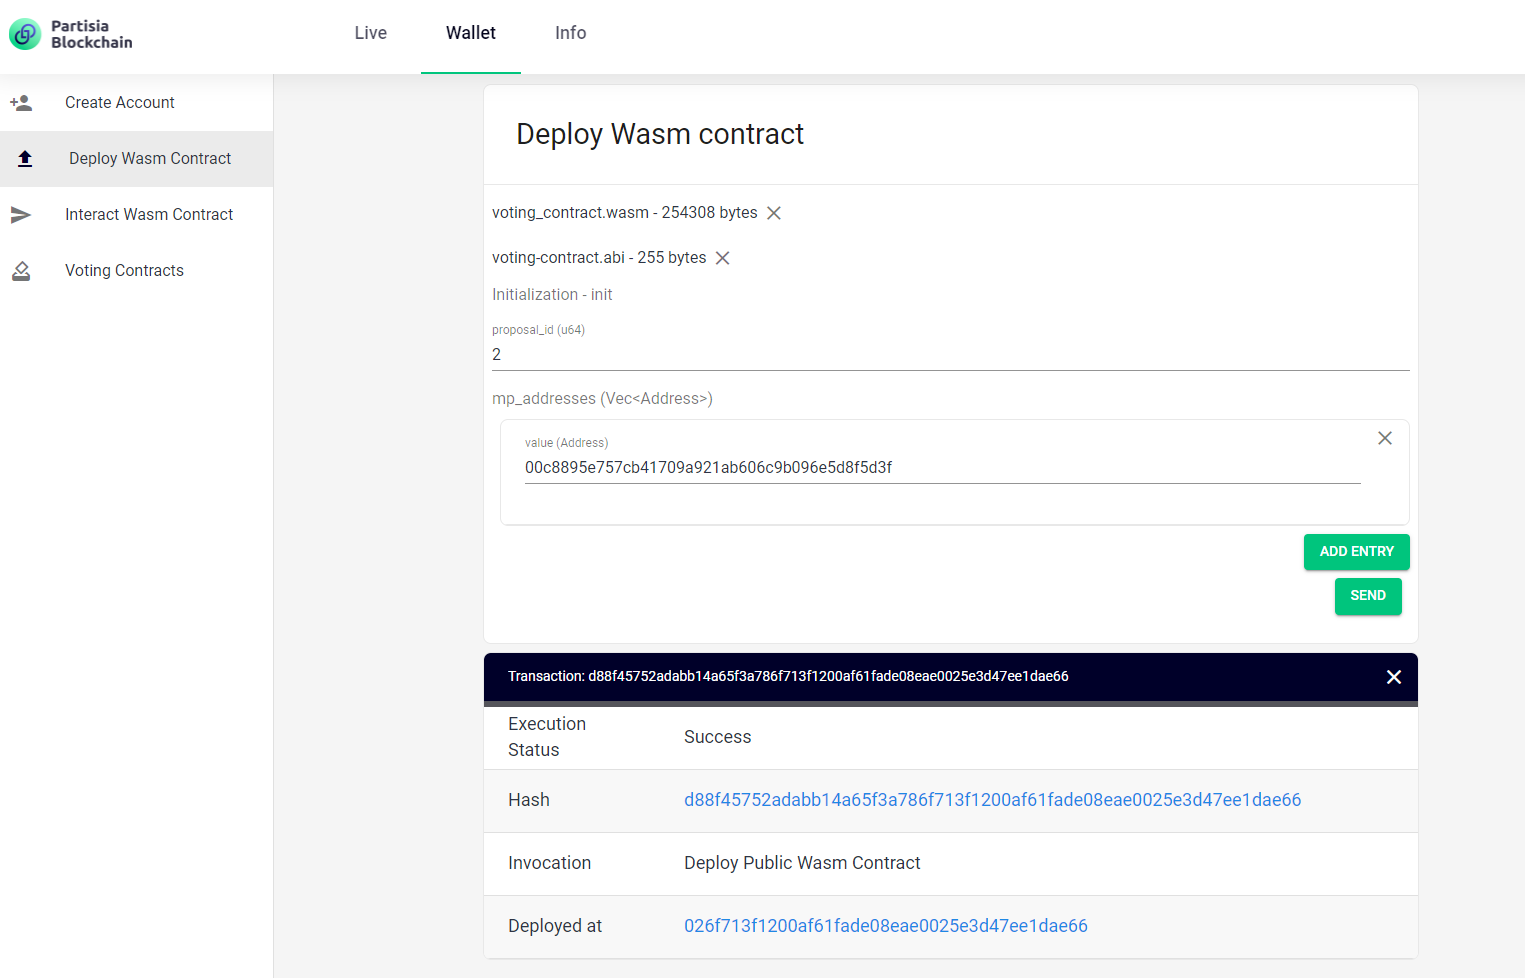
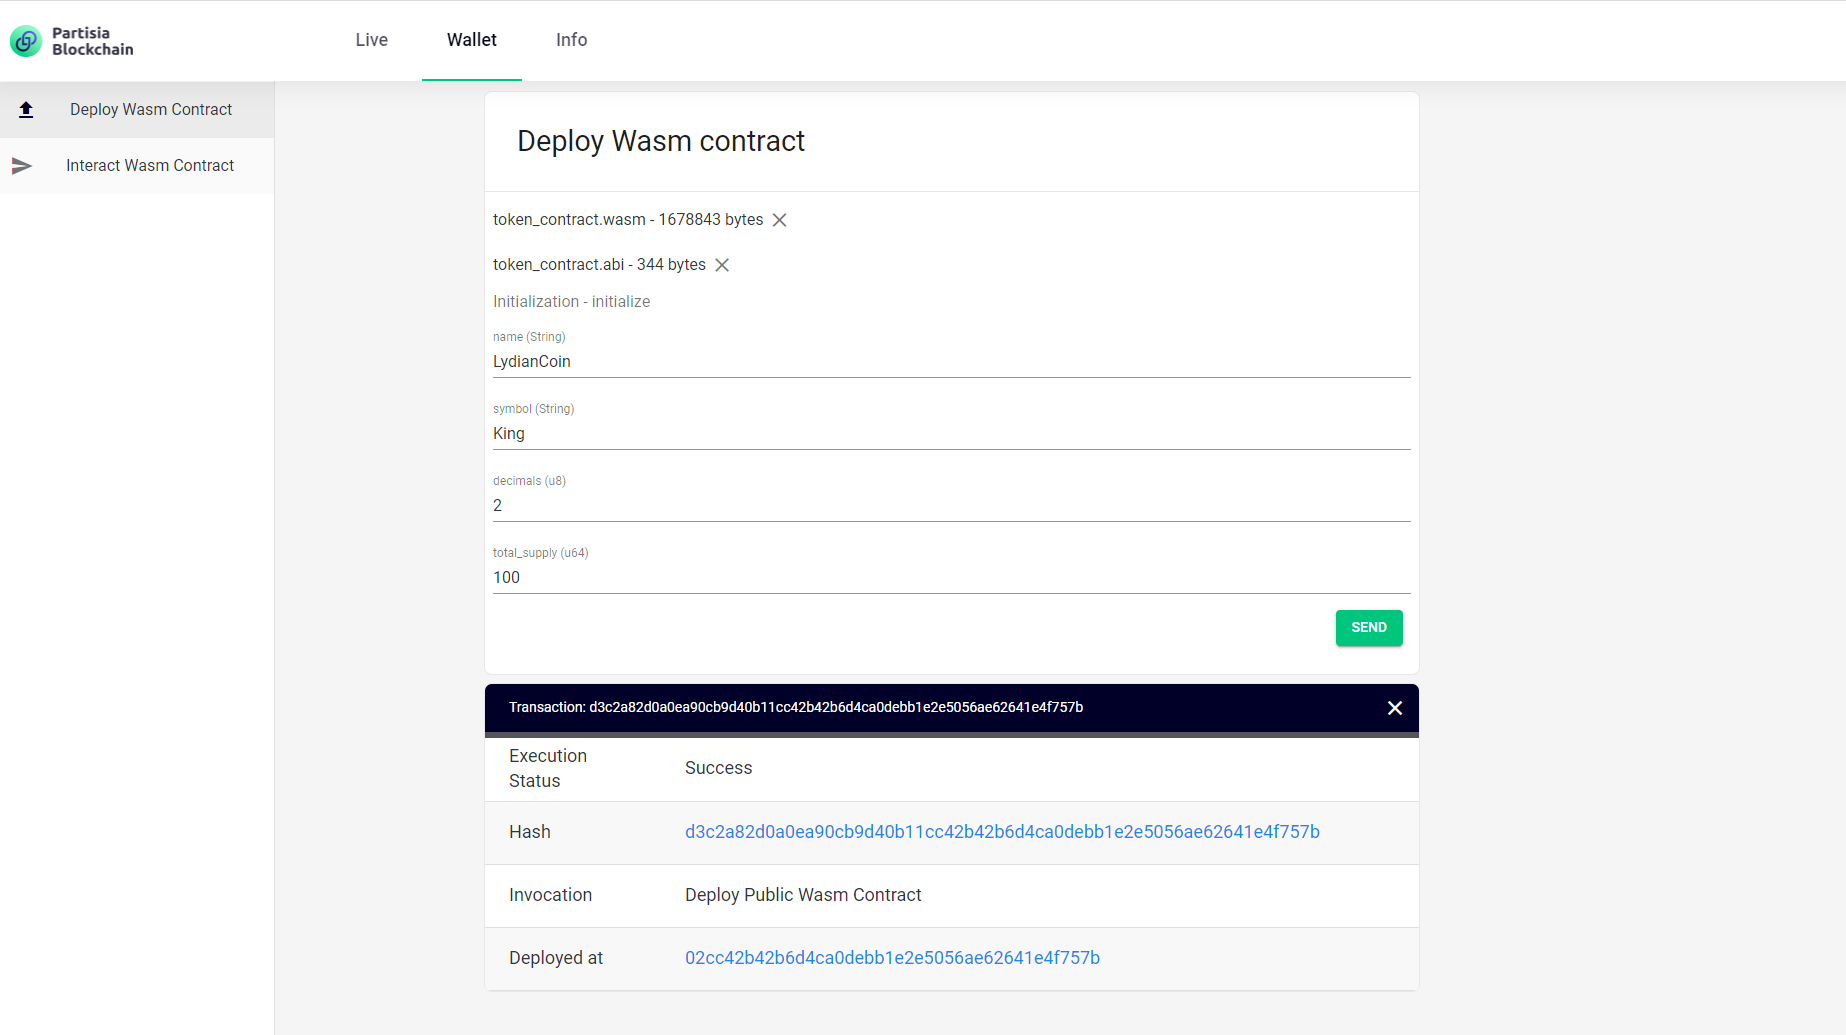
New prerequisites: MS VS C++ build tools, WALLET, GAS

diff --git a/docs/token-contract.md b/docs/token-contract.md
@@ -1,8 +1,8 @@
 ## Develop your first contract
 
-If you are here you should already have familiarised yourself with the prerequisites.
-You have an account and have your Linux terminal and Rust environment up and running.
-For prices see [Transaction fees](transactions.md).
+**Must have for this section:**
+1. An account on PBC - can be created in [wallet extension](https://chrome.google.com/webstore/detail/partisia-wallet/gjkdbeaiifkpoencioahhcilildpjhgh), if you do not have one from [purchase of MPC tokens](https://kyc.partisiablockchain.com/).  
+2. [Get some gas to cover transaction costs](byoc.md).
 
 ### Step 1: Download the SDK
 
@@ -10,6 +10,9 @@ Download the [Partisia Contract SDK](LINK_TO_RUST_CONTRACT_SDK) archive containi
 files and the SDK. The archive contains the `partisia-contract` tool, the SDK and some example contracts.
 If you are working with a WSL shell on Windows you can locate files within WSL in the folder named `\\wsl$\Ubuntu\`.
 From now on we assume you have extracted the archive to `/tmp/pbc-rust-wasm` (which is `\\wsl$\Ubuntu\tmp\pbc-rust-wasm` in WSL).
+
+**NB.** You must acquire *C++ build tools for Windows*, if you work in Git Bash or PowerShell:  
+[Download Visual Studio with C++](https://visualstudio.microsoft.com/downloads/) In Visual Studio Installer choose *Desktop development with C++*.
 
 Open a terminal and go to the `/tmp/pbc-rust-wasm` folder: `cd /tmp/pbc-rust-wasm`.
 
@@ -38,12 +41,12 @@ If you look at lib.rs file in your IDE, you will see the contract utilizes sever
 
 ## Step 4: Upload the contract to the blockchain
 
-Open the wallet in the [dashboard](https://dashboard.partisiablockchain.com/wallet/upload_wasm). Select the `token_contract.wasm` and the `token_contract.abi`. In the Init field you put the number of tokens you want minted for total supply of the contract from the moment of deployment. After you send the contract to the chain a box appears below. You are provided with the following information fields *Execution status*, *Hash*, *Invocation* and *Deployed at*.  Successful deployment will look like
+Open the wallet in the [dashboard](https://dashboard.partisiablockchain.com/wallet/upload_wasm). Or use [Partisia Blockchain Explorer](https://mpcexplorer.com/deploy-contract) Select the `token_contract.wasm` and the `token_contract.abi`. In the *total_supply* field you put the number of tokens you want minted for total supply of the contract from the moment of deployment. The *decimals* field indicates placement of decimal point in total supply. E.g. total supply: 1050 decimals: 3 will mint supply of 1.050 token. After you send the contract to the chain a box appears below. You are provided with the following information fields *Execution status*, *Hash*, *Invocation* and *Deployed at*.  Successful deployment will look like
 this:
 
 ![deployment](deployment.png)
 
-You are now ready to interact with the contract. Copy the address of deployment and paste it into the menu *Interact Wasm Contract*. Now you can mint and transfer your tokens.
+You are now ready to interact with the contract. Copy the address of deployment and paste it into the menu *Interact Wasm Contract* in the dashboard. Now you can mint and transfer your tokens.
 
 <div class="embed-video-wrapper">
 <iframe width="711" height="400" src="https://www.youtube.com/embed/qV2grtWDxUE" title="YouTube video player" frameborder="0" allowfullscreen></iframe>

diff --git a/docs/accounts.md b/docs/accounts.md
@@ -1,6 +1,6 @@
 # Accounts
 
-When you create an account on Partisia Blockchain you randomly generate a private key known only to you. When you sign transactions you use the private key.  
+When you create an account on Partisia Blockchain you randomly generate a private key (or a mnemonic phrase) known only to you. When you sign transactions you use the private key.  
 
 An PBC account holds the information necessary to enabling the user to perform transactions. This information includes:
 
